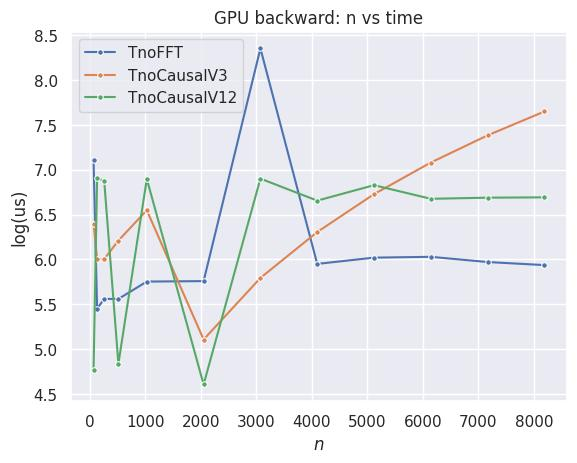
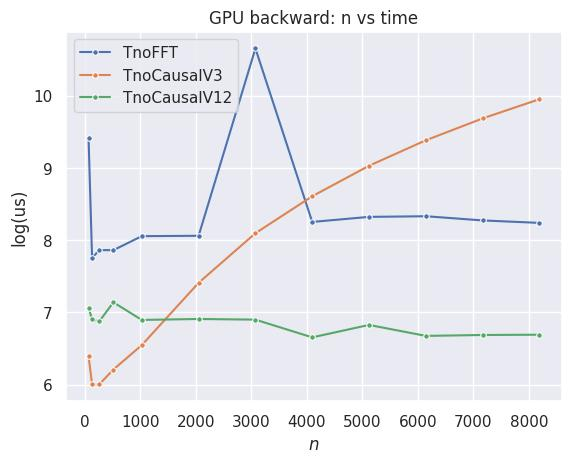
fix curve bug

diff --git a/generate_curve.py b/generate_curve.py
@@ -28,9 +28,9 @@ def get_stat(file_path):
                 if "us" in string:
                     time = float(string[:-2])
                 elif "ms" in string:
-                    time = 100 * float(string[:-2])
+                    time = 1000 * float(string[:-2])
                 else:
-                    time = 10000 * float(string[:-2])
+                    time = 1000000 * float(string[:-2])
                 stat[hardware][stage][name] = time
 
     return stat
